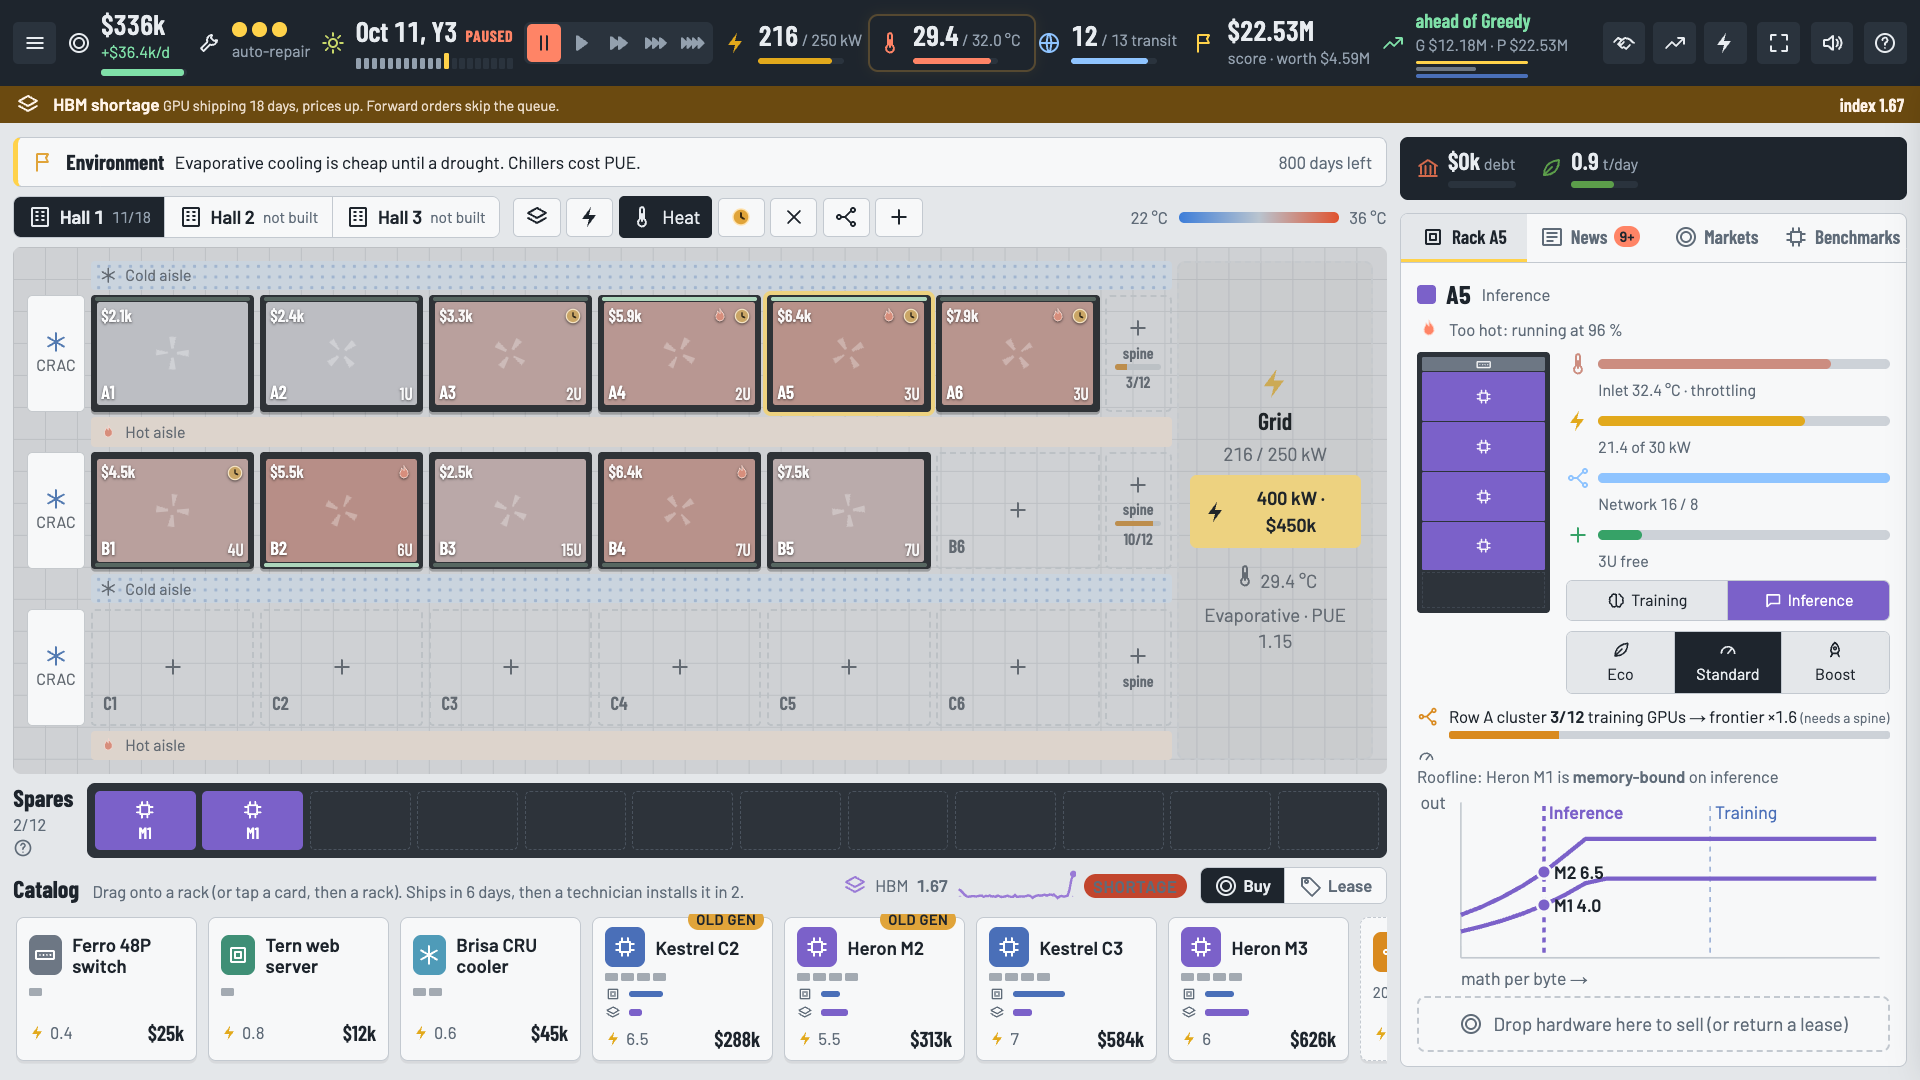
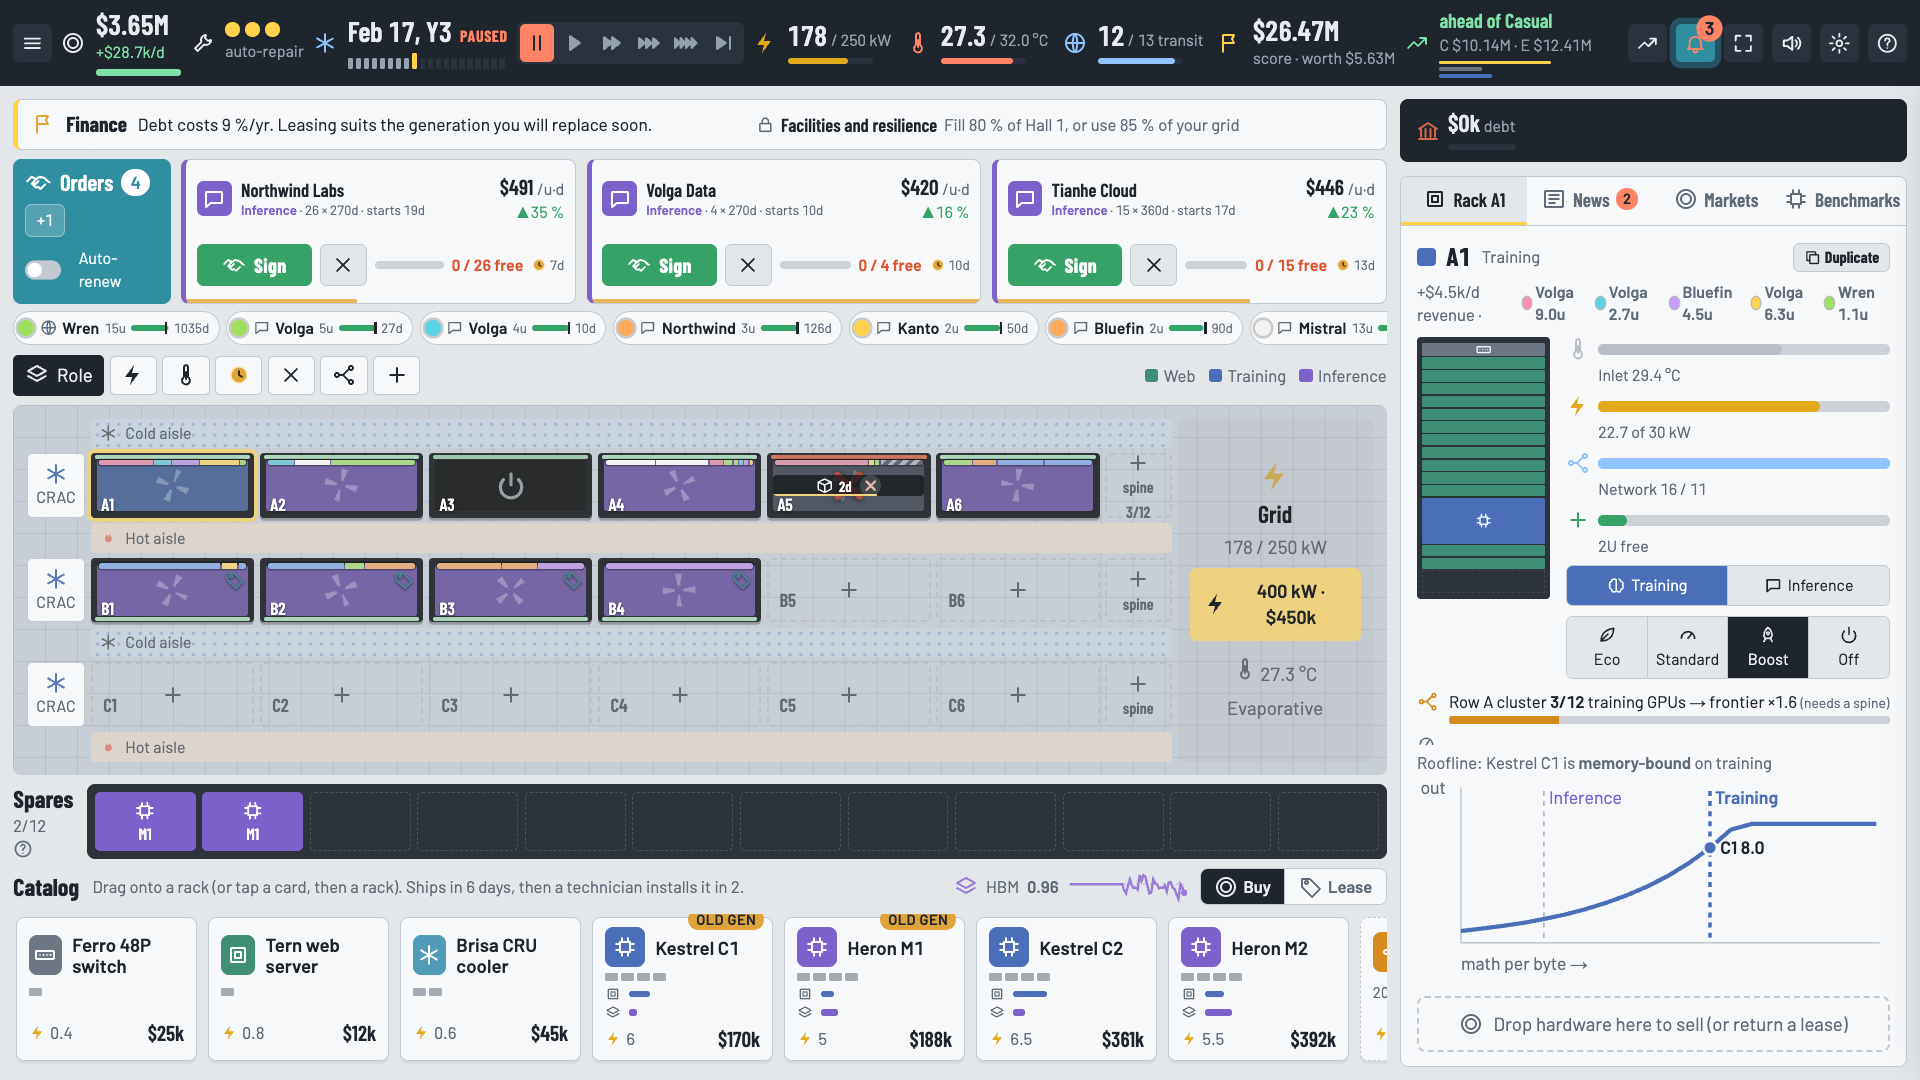
fix: Esc clears a tapped card first; replay orders same-day items by real time; docs: CHANGELOG, README controls + screenshot, CLAUDE.md, GAME_FEEL, UI_BACKLOG status

diff --git a/tools/replay.js b/tools/replay.js
@@ -26,7 +26,8 @@ const s = Sim.newGame(log.seed, { sandbox: log.sandbox });
 const timeline = [
   ...log.snaps.map(x => ({ d: x.d, kind: 0, x })),
   ...log.actions.filter(x => x.k === "act").map((x, i) => ({ d: x.d, kind: 1, i, x })),
-].sort((a, b) => a.d - b.d || a.kind - b.kind || (a.i || 0) - (b.i || 0));
+].sort((a, b) => a.d - b.d || ((a.x.rt != null && b.x.rt != null) ? a.x.rt - b.x.rt : 0) || a.kind - b.kind || (a.i || 0) - (b.i || 0));
+// same game day: the recorded real time decides (a snapshot taken while paused after actions, e.g. at export, comes after them)
 let drift = 0, maxDrift = 0, firstDrift = null, rejectedOnReplay = [];
 for (const e of timeline) {
   if (s.over) break;

diff --git a/js/ui.js b/js/ui.js
@@ -3085,8 +3085,8 @@
     if (e.code === "Space") { e.preventDefault(); if (V.skip) stopSkip("key"); setSpeed(V.speed ? 0 : V.lastSpeed); }
     else if (SPEEDS[k] && !mod) { if (V.skip) stopSkip("key"); setSpeed(SPEEDS[k]); }
     else if (k === "Escape") {
+      hoverHide();                   // the hover card never eats an Esc meant for something else
       if (drag && drag.started) cancelDrag("Esc");
-      else if (V.hover) hoverHide();
       else if (V.armed) { V.armed = null; renderAll(); }
       else if (V.pop) closePop();
       else if (V.multi.size) clearMulti();

diff --git a/docs/GAME_FEEL.md b/docs/GAME_FEEL.md
@@ -105,6 +105,10 @@ with an unplugged icon and a `--sweep` light sweep (CSS `@property`) when a swit
 racks, a blinking red LED on failures, `FX.vignette` for big losses and walk-outs, `FX.danger` (depth ∝ 60 − runway days,
 heartbeat under 30), `FX.fly` for offers → board badge, chapters → goal flag, signing → the serving racks. Every signal is
 ≤ 400 ms or a steady state, never blocks input; reduced motion (OS or the Settings override, `FX.setReduced`) keeps colour
-only. Rejection text stays in tooltips and the `#sr` aria-live region. Perf at 8x with 36 racks, 1920×1080 (n=1 run,
-3 × 8 s windows): frame() JS p95 4.7–4.9 ms, max 7–15 ms; rAF 16.7 ms p95; baseline HEAD a125ef8 on the same harness
-p95 5.3 ms (the HUD's forced layout per render was replaced by a ResizeObserver).
+only. Rejection text stays in tooltips and the `#sr` aria-live region. Perf at 8x with 36 racks, 1920×1080
+(`.playwright-mcp/perfA.js`, n=2 runs × 2 windows): frame() JS p95 3.1–3.3 ms, median 0.8, max 6–8 ms; rAF p95 16.7 ms.
+The pre-pass build (HEAD a125ef8) measured 7.5–8.1 ms p95 on the same machine in interleaved runs (n=3; the machine was
+slower than in the earlier 5.3 ms measurement, so only interleaved numbers compare). Two findings: (1) setting `ctx.font`
+on the page canvas right after ui.js rewrote the DOM forced a full style recalc inside FX.tick (≈6 ms of the slowest
+frames); floating text is now a cached OffscreenCanvas sprite; (2) the HUD's `offsetHeight` read in every render forced
+a layout; a ResizeObserver replaced it.

diff --git a/CHANGELOG.md b/CHANGELOG.md
@@ -50,8 +50,14 @@ Versions are milestones of the week-3 project; there are no tagged releases.
 - End screen: lesson icons by loss key (idle, cancelled, SLA, …); contracts row adds cancelled / late.
 - The HUD export button moved into Settings (still in the main menu and on the end screen); the HUD Contracts button is
   replaced by the board header. Lease is a tag flag on the rack tile.
-- Perf: the HUD height is tracked with a ResizeObserver instead of a forced layout in every render (renderAll ≈4.3 →
-  0.9 ms in a 200-render loop, n=1).
+- Perf: the HUD height is tracked with a ResizeObserver instead of a forced layout in every render; floating text is
+  pre-rendered into cached OffscreenCanvas sprites (setting `ctx.font` after a DOM rewrite forced a document style
+  recalc in the slowest 5 % of frames); fly/cash-signal rect reads wait for the next frame; job chips are cached. At 8x,
+  36 racks, 1920×1080 (n=2 runs × 2 windows): frame() JS p95 3.1–3.3 ms, median 0.8 ms, vs the pre-pass build on the same
+  machine and harness 7.5–8.1 ms p95 (interleaved, n=3).
+- Esc clears a tapped card before anything else (it used to hide the hover card first, and the next rack click then
+  tried to place the card). `tools/replay.js` orders same-day actions and snapshots by recorded real time (an export
+  snapshot taken while paused no longer reads as a divergence).
 
 ### Added
 - **Fixed game screen that fits any window.** The UI is one 1920×1080 screen (authored at 1440×810, zoom 4/3) scaled
